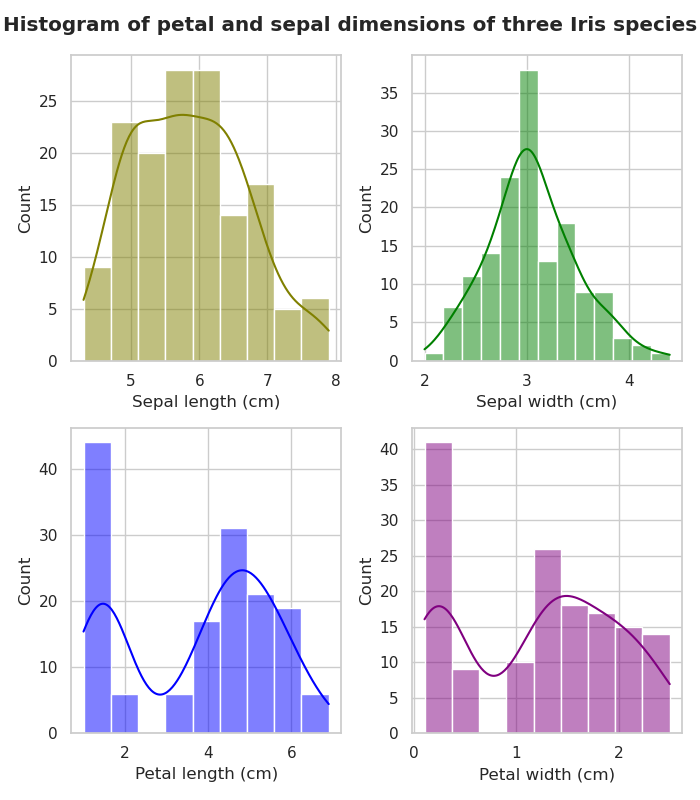
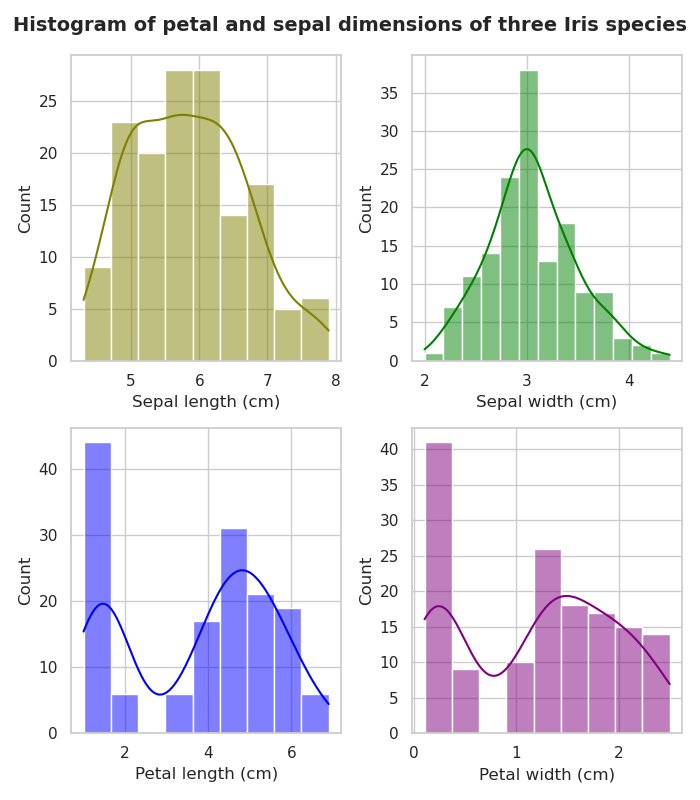
add comments

Changed region(s): [[0.57, 0.0, 1.0, 0.0625], [0.0, 0.0, 0.45, 0.0625]]

diff --git a/analysis.py b/analysis.py
@@ -73,18 +73,18 @@ Question 1. SUMMARY into text file, containing basic statistical analysis
 df. describe to get count, mean, standard deviation, min and max values, lower, mid and upper percentile
 '''
 df.describe()  # describe method to get basic statistical analysis data 
-# print (df.describe()) # print out description of data in terminal output, but I do not want this
+# print (df.describe()) # to print out description of data in terminal output, but I do not want this
 # What I want is to export data into a .txt file called summary.txt
 # use the built-in open() function
 text_file = open("summary.txt", "wt") # with open function, open a new file called summary, mode is w, and t is text mode and call it text_file
 # then, export into text file called summary, convert pandas dataframe to string
-n = text_file.write(df.describe().to_string()) # with write mehtod, write the converted df.describe() string into a text file, and name it n
+n = text_file.write(df.describe().to_string()) # with write method, write the converted df.describe() string into a text file, and call it n
 text_file.close()  # ALWAYS close file when done
 
 '''
 Question 2. DATA VISUALISATION: Histogram of each variable into png file
 '''
-sns.set(style="whitegrid")  # set background od seaborn histogram to whitegrid
+sns.set(style="whitegrid")  # set background of seaborn histogram to whitegrid
 fig, axs = plt.subplots(2, 2, figsize=(7, 8)) # with subplots function, create a figure containing subplots with multiple axes 
 # set subplot arrangement/grid position in 2 directions (2D grid) (2 down by 2 across) 
 # set size of whole figure (7 width, 8 height))
@@ -97,7 +97,7 @@ sns.histplot(data=df, x="Sepal length (cm)", # x-axis is sepal length
 # display KDE line : Kernel density estimation (KDE) shows the data using a continuous curve
 # KDE creates data 'smoothing' of the density distribution with a Gaussian kernel
 # set the histogram bar color for this plot to olive
-# ax list contains the coordinate of each subplot on the figure
+# ax list contains the coordinate/grid location of each subplot on the figure
 sns.histplot(data=df, x="Sepal width (cm)", kde=True, color="green", # x-axis is sepal width, histogram bar color is green
              ax=axs[0, 1])  # list of subplot location at first row, second column
 sns.histplot(data=df, x="Petal length (cm)", # x-axis is petal length, histogram bar color is blue
@@ -105,7 +105,7 @@ sns.histplot(data=df, x="Petal length (cm)", # x-axis is petal length, histogram
 sns.histplot(data=df, x="Petal width (cm)", # x-axis is petal width, histogram bar color is purple
              kde=True, color="purple", ax=axs[1, 1]) # list of subplot location at second row, second column
 fig.suptitle('Histogram of petal and sepal dimensions of three Iris species',
-             fontweight='bold')  # function to customize figure's super title, default font color is black, fontweight is bold
+             fontweight='bold', size=14)  # function to customize figure's super title, default font color is black, fontweight is bold, fontsize is 14
 fig.tight_layout()  # method to fit all subplots into one figure nicely automatically
 plt.savefig('iris.png')  # function to save output into png file
 plt.show()  # function to show plot
@@ -129,7 +129,7 @@ pp = sns.pairplot(df, hue='Iris species', markers=[ # instantiate a seaborn pair
 # kind is a chart type, kind='reg' applies a linear regression line to identify the relationship within the scatter plot
 # plot_kws and pass in a dictionary object to customize the regression fit and line to blue
 plt.suptitle('Scatter Plot for sepal and petal attributes of three Iris species', color='#3D3F38',
-             fontweight='bold', size=15) # function to customize figure's super title, font color is hex number 3D3F38, fontweight is bold, fontsize 15
+             fontweight='bold', size=20) # function to customize figure's super title, font color is hex number 3D3F38, fontweight is bold, fontsize 20
 pp.fig.subplots_adjust(top=0.92, bottom=0.08)
 # fig.subplots_adjust function shifts the pairplot position, 0.92 of the default 0.9 for the top edge and 0.08 of the default 0.1 for the bottom edge
 # this had to be done to show the super title properly
@@ -338,8 +338,8 @@ dispdt = ConfusionMatrixDisplay.from_estimator(dtclassifier, X_test, y_test) # i
 # True Negative = 9+0+0+11 = 20
 # False Positive = 0+0 (across) = 0
 # False Negative = 0+0 (down) = 0
-plt.suptitle('Decision Tree Confusion Matrix for sepal and petal attributes of three Iris species',
-             color='#3D3F38', fontweight='bold', size=10) # function to customize super title, font color is hex number 3D3F38, fontweight bold, font size 10
+plt.suptitle('Decision Tree Confusion Matrix for sepal and petal \nattributes of three Iris species',
+             color='#3D3F38', fontweight='bold', size=15) # function to customize super title, font color is hex number 3D3F38, fontweight bold, font size 15
 plt.grid(False) # function to eliminate white grid within the confusion matrix
 plt.show() # function to display Confusion Matrix
 print('\nDecision Tree Classification model accuracy is',
@@ -390,8 +390,8 @@ rf.fit(X_train, y_train)  # fit method fits the model to the training set
 y_pred_rf = rf.predict(X_test) # instantiate a predict method using the test dataset and call it y_pred_rf
 # Random Forest visualization using confusion matrix
 disprf= ConfusionMatrixDisplay.from_estimator(rf, X_test, y_test) # instantiate a ConfusionMatrixDisplay class and from_estimator method and call it disprf
-plt.suptitle('Random Forest Confusion Matrix for sepal and petal attributes of three Iris species',
-             color='#3D3F38', fontweight='bold', size=10) # function to customize super title, font color is hex number 3D3F38, fontweight bold, font size 10
+plt.suptitle('Random Forest Confusion Matrix for sepal and petal \nattributes of three Iris species',
+             color='#3D3F38', fontweight='bold', size=15) # function to customize super title, font color is hex number 3D3F38, fontweight bold, font size 15
 plt.grid(False) # function to eliminate white grid within the confusion matrix
 plt.show() # function to show plot
 print('\nRandom Forest model accuracy score is',
